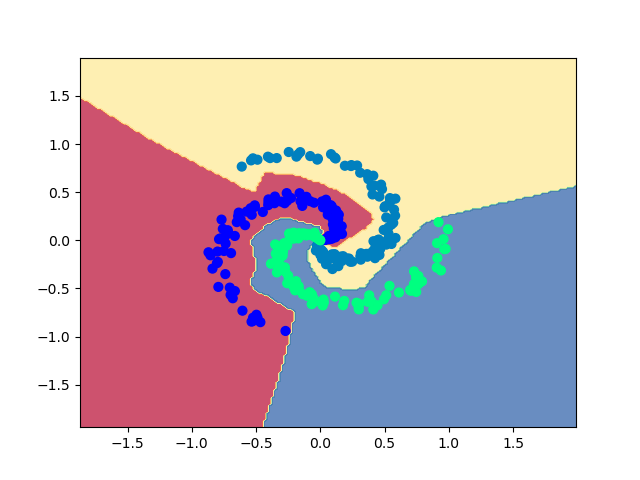
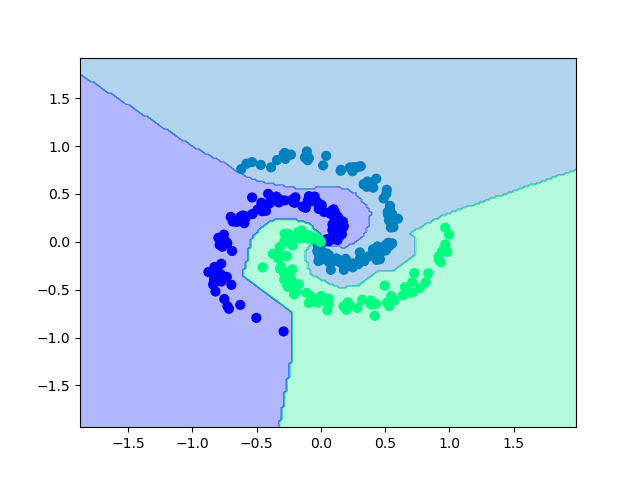
Heavily modified that ugly code.

diff --git a/spiral_hw_01/gibbons_hw_01.py b/spiral_hw_01/gibbons_hw_01.py
@@ -60,17 +60,35 @@ def relu(vals):
     return np.maximum(0, vals)
 
 
+def weighted_input(weights, inputs, bias):
+    return weights @ inputs + bias
+
+
+def update_parameter(parameter, parameter_partial):
+    return parameter - learn_rate * parameter_partial
+
+
+def add_regularization(weight, weight_partial):
+    return weight_partial + (reg_strength / n_feature) * weight
+
+
+def sum_sqr(arr):
+    return np.sum(arr ** 2)
+
 # %%
 # gradient descent loop
 X = np.transpose(data_mat)
 n_feature = X.shape[1]
 n_epochs = int(1e4)
+cost_scaler = 0.5 * (reg_strength / n_feature)
+# TODO: make this into a function Loop just updates weights
 for epoch in range(n_epochs):
 
     # evaluate class scores, [N x K]
     # note: Array broadcasting & ReLU activation
-    activation_2 = np.maximum(0, np.dot(weight_2, X) + bias_2)
-    weight_inp_3 = np.dot(weight_3, activation_2) + bias_3
+    weight_inp_2 = weighted_input(weight_2, X, bias_2)
+    activation_2 = relu(weight_inp_2)
+    weight_inp_3 = weighted_input(weight_3, activation_2, bias_3)
 
     # compute the class probabilities
     exp_weight_inp_3 = np.exp(weight_inp_3)
@@ -79,51 +97,52 @@ for epoch in range(n_epochs):
 
     # compute the loss: average maximum likelihood cost (cross entropy) and
     # regularization
+    # TODO: Make this a function
     cost_y = -np.log(activation_3[true_labels, range(n_feature)])
     avg_cost_y = np.sum(cost_y) / n_feature
-    cost_W2W3 = (
-        0.5 * (reg_strength / n_feature) * np.sum(weight_2 * weight_2)
-        + 0.5 * (reg_strength / n_feature) * np.sum(weight_3 * weight_3)
-    )
+    cost_W2W3 = cost_scaler * np.sum((sum_sqr(weight_2), sum_sqr(weight_3)))
     cost = avg_cost_y + cost_W2W3
     if epoch % 1000 == 0:   # % -  modulo
-        print("iteration %d: loss %f" % (epoch, cost))
+        print(f'Epoch {epoch:04d}: loss {cost:.5f}')
 
     # compute the gradient on scores
+    # TODO: Make this a function
     delta_3 = activation_3
     delta_3[true_labels, range(n_feature)] -= 1
     delta_3 /= n_feature
 
     # backpropogate the gradient to the parameters
     # first backpropogate into parameters W3 and b3
-    grad_weight_3 = np.dot(delta_3, activation_2.T)
-    grad_bias_3 = np.sum(delta_3, axis=1, keepdims=True)
+    # TODO: Make this a function until regularization
+    weight_3_partial = delta_3 @ activation_2.T
+    bias_3_partial = delta_3.sum(axis=1, keepdims=True)
 
     # next backprop into hidden layer
-    delta_2 = np.dot(weight_3.T, delta_3)
+    delta_2 = weight_3.T @ delta_3
 
     # backprop the ReLU non-linearity
     delta_2[activation_2 <= 0] = 0
 
     # finally into W,b
-    grad_weight_2 = np.dot(delta_2, X.T)
-    grad_bias_2 = np.sum(delta_2, axis=1, keepdims=True)
+    weight_2_partial = delta_2 @ X.T
+    bias_2_partial = delta_2.sum(axis=1, keepdims=True)
 
     # add regularization gradient contribution
-    grad_weight_3 += (reg_strength / n_feature) * weight_3
-    grad_weight_2 += (reg_strength / n_feature) * weight_2
+    weight_3_partial = add_regularization(weight_3, weight_3_partial)
+    weight_2_partial = add_regularization(weight_2, weight_2_partial)
 
     # perform a parameter update
-    weight_2 += -learn_rate * grad_weight_2
-    weight_3 += -learn_rate * grad_weight_3
-    bias_2 += -learn_rate * grad_bias_2
-    bias_3 += -learn_rate * grad_bias_3
+    weight_2 = update_parameter(weight_2, weight_2_partial)
+    bias_2 = update_parameter(bias_2, bias_2_partial)
+
+    weight_3 = update_parameter(weight_3, weight_3_partial)
+    bias_3 = update_parameter(bias_3, bias_3_partial)
 
 # evaluate training set accuracy
-activation_2 = np.maximum(0, np.dot(weight_2, X) + bias_2)
-activation_3 = np.dot(weight_3, activation_2) + bias_3
-predicted_class = np.argmax(activation_3, axis=0)
-print('training accuracy: %.4f' % (np.mean(predicted_class == true_labels)))
+activation_2 = relu(weighted_input(weight_2, X, bias_2))
+activation_3 = weighted_input(weight_3, activation_2, bias_3)
+predicted_class = activation_3.argmax(axis=0)
+print(f'training accuracy: {np.mean(predicted_class == true_labels):.4f}')
 misses = np.argwhere(predicted_class != true_labels)
 #
 # plot the resulting classifier
@@ -132,15 +151,10 @@ x_min, x_max = X[0, :].min() - 1, X[0, :].max() + 1
 y_min, y_max = X[1, :].min() - 1, X[1, :].max() + 1
 xx, yy = np.meshgrid(np.arange(x_min, x_max, g),
                      np.arange(y_min, y_max, g))
-print
-print("xx.shape:"), print(xx.shape)
-print
-print("yy.shape:"), print(yy.shape)
-print
 
-# Zt = np.dot(
-#     np.maximum(0, np.dot(np.c_[xx.ravel(), yy.ravel()], W2t) + b2t), W3t
-# ) + b3t
+print(f'\nxx.shape: \n\t{xx.shape}\n')
+print(f'yy.shape: \n\t{yy.shape}\n')
+
 Xt_grid = np.c_[xx.ravel(), yy.ravel()]
 X_grid = np.transpose(Xt_grid)
 a2_grid = np.maximum(0, np.dot(weight_2, X_grid) + bias_2)
@@ -149,7 +163,7 @@ Z = np.argmax(z3_grid, axis=0)
 Z = np.argmax(z3_grid, axis=0)
 Z = Z.reshape(xx.shape)
 fig = plt.figure()
-plt.contourf(xx, yy, Z, cmap=plt.cm.Spectral, alpha=0.8)
+plt.contourf(xx, yy, Z, cmap=plt.cm.winter, alpha=0.3)
 plt.scatter(X[0, :], X[1, :], c=true_labels, s=40, cmap=plt.cm.winter)
 plt.xlim(xx.min(), xx.max())
 plt.ylim(yy.min(), yy.max())
@@ -162,5 +176,4 @@ z3_origin = np.asarray(
 z3_argmax = np.argmax(z3_origin, axis=0)
 
 end = time.time()
-print('time needed to run program:', end - start)
-
+print(f'Time needed to run program: {end - start:.4f} seconds')
